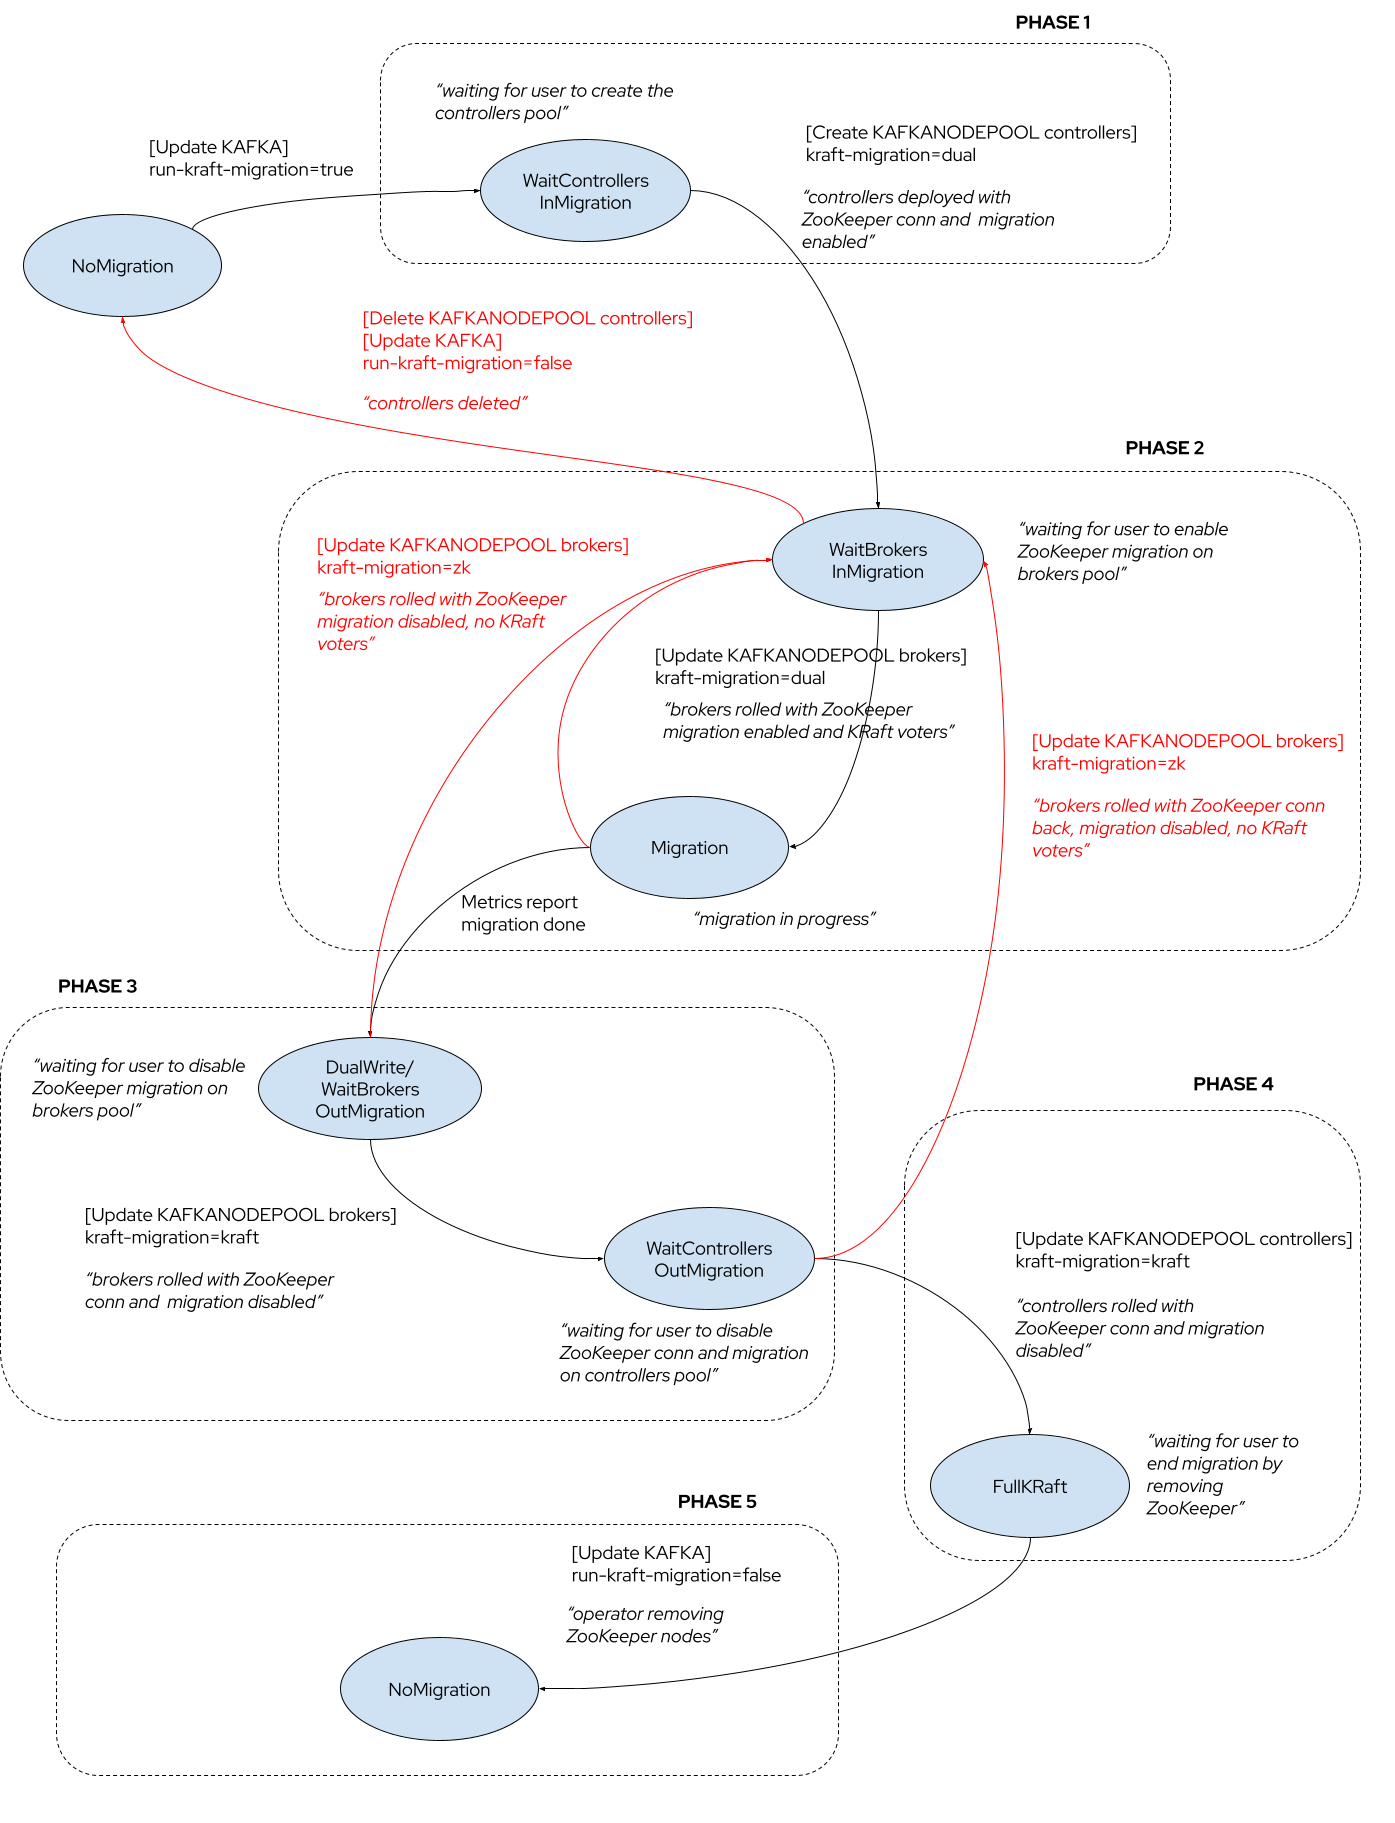
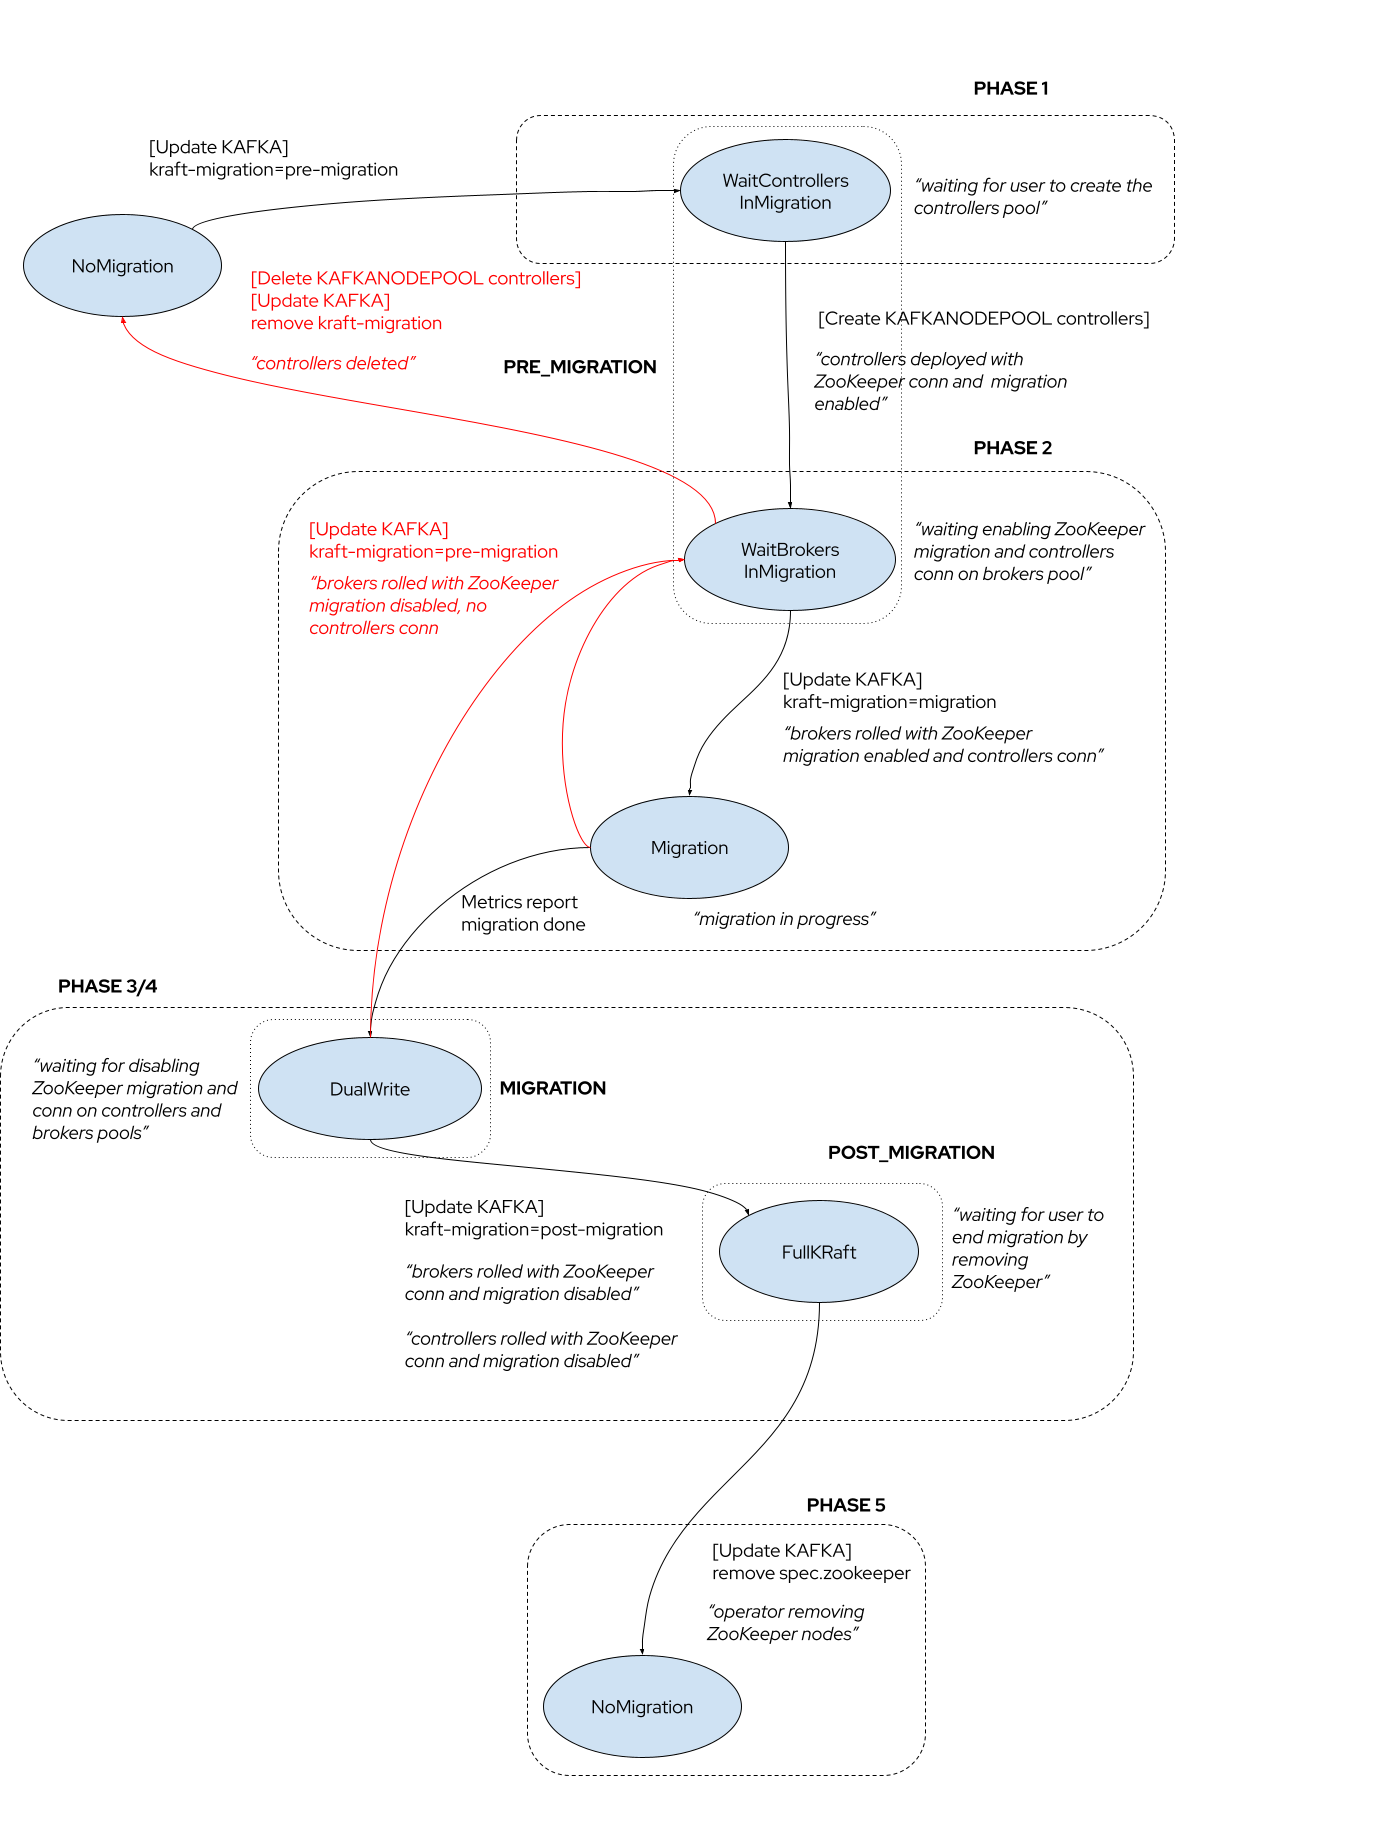
Moved to use a single annotation Updated the migration FSM based on the new single annotation

diff --git a/056-zk-kraft-migration.md b/056-zk-kraft-migration.md
@@ -37,8 +37,6 @@ One of the main points to highlight is that such a process doesn't support to mi
 It means that the user environment should be sized to host more nodes running in parallel, because during the migration process both ZooKeeper nodes and KRaft controllers will be running.
 The end of the migration will involve shutting down the ZooKeeper nodes reducing the resources consumption.
 
-TBD: some intro about Strimzi migration process
-
 ### Prerequisites
 
 An Apache Kafka cluster is running in ZooKeeper mode with `N` brokers and `M` ZooKeeper nodes, as defined by the `replicas` fields in the corresponding `Kafka` custom resource.
@@ -77,14 +75,13 @@ The migration process can be also rolled back to ZooKeeper at any point before t
 ### Finite State Machine (FSM)
 
 The migration process can be described with a Finite State Machine (FSM).
-The operator has a new `MigrationManager` component in charge of tracking the migration finite state machine.
-Transitioning across the states depends on the current state, stored in the `strimzi.io/kraft-migration-state` annotation, and the "input" represented by the user interaction with the operator through the following annotations:
-
-* `strimzi.io/run-kraft-migration`: to be applied on the `Kafka` custom resource with `true|false` values to start/end the overall migration process.
-* `strimzi.io/kraft-migration`: to be applied on the `KafkaNodePool`(s) custom resource with `dual|kraft|zk` values to represent the desired "direction" in the migration process by the user:
-  * `dual`: allows to move the migration process forward to reach the point of the "dual-write" with KRaft controllers deployed but with metadata written to both ZooKeeper and KRaft. Brokers are also connected to both ZooKeeper nodes and KRaft controllers.
-  * `kraft`: allows to move the migration process forward from the "dual-write" to the end of the migration with ZooKeeper out of the picture.
-  * `zk`: allows to move the migration process back, when still possible, to have brokers working again with ZooKeeper ensemble only.
+The operator has a new `MigrationManager` component in charge of driving and tracking transitions in the FSM.
+Transitioning across the states depends on the current state, stored in the `strimzi.io/kraft-migration-state` annotation, and the "input" represented by the user interaction with the operator through the `strimzi.io/kraft-migration` annotation to be applied on the `Kafka` custom resource.
+The possible values are `pre-migration|migration|post-migration` to represent the desired "direction" in the migration process:
+ 
+* `pre-migration`: used at the very beginning of the migration process represent the intention to move into the phase where operator is waiting for the user to create the KRaft controllers pool in order to deploy the corresponding nodes with the ZooKeeper migration enabled. This value can be also used to rollback the migration progress, when still possible, to have brokers working again with ZooKeeper ensemble only.
+* `migration`: to move the migration process forward with brokers configured with the ZooKeeper migration enabled and connected to the KRaft controllers, so that Apache Kafka migration component can run the actual metadata migration ending to the "dual write" mode where metadata are both written to ZooKeeper and KRaft. Brokers are also connected to both ZooKeeper nodes and KRaft controllers.
+* `post-migration`: to finalize the migration by disabling the ZooKeeper migration on controllers and brokers, rolling the nodes, and finally having a full KRaft based cluster with ZooKeeper ensemble still running but out of the picture.
 
 The usage of the `strimzi.io/kraft-migration-state` annotation for tracking the migration state, and not using a field in `Kafka.status`, is to avoid a permanent API change (on the `Kafka` CRD) for a temporary process, which won't be used anymore when users will move all their current clusters from ZooKeeper to KRaft.
 
@@ -93,15 +90,15 @@ The state machine is described in the following diagram:
 ![Migration Finite State Machine](./images/056-zk-kraft-migration-fsm.png)
 
 The following sections explain the states and transitions in details.
+The "Phase"(s) reflect what is described in the official [ZooKeeper to KRaft Migration](https://kafka.apache.org/documentation/#kraft_zk_migration) guide in the Apache Kafka documentation but with the right degree of automation provided by the operator.
+Also, the `PRE_MIGRATION`, `MIGRATION` and `POST_MIGRATION` boxes corresponds to the `ZkMigrationState` [enum values](https://github.com/apache/kafka/blob/trunk/metadata/src/main/java/org/apache/kafka/metadata/migration/ZkMigrationState.java#L32) from the Apache Kafka migration component.
 
 #### Phase 1: Provisioning the KRaft controller quorum
 
-Starting from a `NoMigration` (or null) state (as per `strimzi.io/kraft-migration-state` annotation), the user applies the `strimzi.io/run-kraft-migration: true` on the `Kafka` custom resource to make the operator aware of the migration "intention".
+Starting from a `NoMigration` (or null) state (as per `strimzi.io/kraft-migration-state` annotation), the user applies the `strimzi.io/kraft-migration: pre-migration` on the `Kafka` custom resource to make the operator aware of the migration intention.
 The FSM moves to a `WaitControllersInMigration` state where the operator expects the user to create the KRaft controllers pool.
 The user creates the `KafkaNodePool` custom resource containing the definition of the KRaft controllers which are going to replace the ZooKeeper nodes.
-These controllers need to be deployed in "migration mode", so the `KafkaNodePool` custom resource has to be annotated with `strimzi.io/kraft-migration: dual`.
-
-This way, the operator configures the controllers accordingly with the ZooKeeper migration flag and the connection to the ZooKeeper ensemble. 
+The operator creates and configures the controllers accordingly with the ZooKeeper migration flag and the connection to the ZooKeeper ensemble. 
 
 ```shell
 # Enable the migration
@@ -111,21 +108,23 @@ zookeeper.metadata.migration.enable=true
 zookeeper.connect=<connection-to-zookeeper>
 ```
 
-> NOTE: without an annotation to differentiate the operator behavior, the operator itself just creates the controller nodes in the pool and restarts the Kafka brokers to use them. ZooKeeper is not used anymore but no proper migration takes place (from ZooKeeper to KRaft metadata).
+> NOTE: without an annotation on the `Kafka` custom resource to differentiate the operator behavior, the operator itself just creates the controllers in the pool and restarts the Kafka brokers to use them. ZooKeeper is not used anymore but no proper migration takes place (from ZooKeeper to KRaft metadata). Because of KRaft and related migration from ZooKeeper not supported yet, this can drive to the following [issue](https://github.com/strimzi/strimzi-kafka-operator/issues/9108).
 
 The operator has to wait for the KRaft controllers quorum to be formed, leader elected and the migration process moving into the state of waiting for brokers to register.
 
-The FSM moves to a `WaitBrokersInMigration` state where the operator expects the user to enable ZooKeeper migration on the brokers pool in order to actually start the migration (Phase 2).
+The FSM moves to a `WaitBrokersInMigration` state where the operator expects the user to ask for running the actual metadata migration.
+It means having the operator enabling the ZooKeeper migration on the brokers pool in order to actually start the migration (Phase 2).
 
 From this state it's still possible to not move forward with the migration.
-The user can delete the `KafkaNodePool` custom resource containing the definition of the KRaft controllers and apply the `strimzi.io/run-kraft-migration: false` annotation (or delete it) on the `Kafka` custom resource.
+The user can delete the `KafkaNodePool` custom resource containing the definition of the KRaft controllers and remove the `strimzi.io/kraft-migration` annotation from the `Kafka` custom resource.
 The FSM moves back to the `NoMigration` state (or null) actually exiting from the migration process.
+There is nothing to do with the brokers which are still configured to work with the ZooKeeper ensemble only.
 
 #### Phase 2: Enabling the migration on the brokers
 
-In the `WaitBrokersInMigration` state, the operator expects the user to enable ZooKeeper migration on the brokers pool in order to actually start the migration.
+In the `WaitBrokersInMigration` state, the operator expects the user to ask for running the actual metadata migration.
 In order to start the actual migration, the brokers need to be connected to the KRaft controllers and have the ZooKeeper migration enabled.
-The user annotates the `KafkaNodePool` resource running the current ZooKeeper based brokers with `strimzi.io/kraft-migration: dual`.
+The user annotates the `Kafka` custom resource running the current ZooKeeper based brokers with `strimzi.io/kraft-migration: migration`.
 This annotation drives the operator to update the brokers' configuration with the ZooKeeper migration flag enabled and with the new KRaft controllers quorum connection information as well.
 
 ```shell
@@ -141,20 +140,20 @@ zookeeper.metadata.migration.enable=true
 ```
 
 Finally, the operator rolls the brokers.
-After the rolling, the migration starts and the operator has to wait for it to be completed to move to the next phase.
+After the rolling, the internal Apache Kafka migration component starts the actual metadata migration and the operator has to wait for it to be completed to move to the next phase.
 Checking the migration progress can be done using some of the exposed migration metrics.
-The FSM moves to `Migration` state first, while migration is ongoing, and finally to the `DualWrite/WaitBrokersOutMigration` state.
-In both states, the user can rollback the process by applying the `strimzi.io/kraft-migration: zk` on the `KafkaNodePool` resource running the current ZooKeeper based brokers.
+The FSM moves to `Migration` state first, while migration is ongoing, and finally to the `DualWrite` state.
+In both states, the user can rollback the process by applying the `strimzi.io/kraft-migration: pre-migration` on the `Kafka` custom resource.
 In this case, the operator configures the brokers with no ZooKeeper migration flag, and no KRaft controllers quorum connection information.
 Finally, the operator rolls the brokers and wait for them to be ready again.
-The FSM moves back to the `WaitBrokersInMigration`, so actually at the end of the Phase 1.
+The FSM moves back to the `WaitBrokersInMigration`, so actually at the beginning of the Phase 2.
 
-If the user doesn't rollback the migration, next step is to move brokers out of migration and using KRaft only in Phase 3.
+If the user doesn't rollback the migration, next step is to move brokers and controllers out of migration and using KRaft only in Phase 3/4.
 
-#### Phase 3: Migrating brokers to KRaft
+#### Phase 3/4: Migrating brokers and controllers to full KRaft
 
-In the `DualWrite/WaitBrokersOutMigration` state, the operator expects the user to disable the ZooKeeper migration on the brokers pool.
-The user applies the `strimzi.io/kraft-migration: kraft` annotation to the `KafkaNodePool` resource running the current ZooKeeper based brokers.
+In the `DualWrite` state, the operator expects the user wants to finalize the migration, having a full KRaft based cluster and ZooKeeper out of the picture.
+The user applies the `strimzi.io/kraft-migration: post-migration` annotation to the `Kafka` custom resource.
 The operator updates the brokers' configuration by removing the ZooKeeper migration flag and connection to the ZooKeeper ensemble.
 It also has to replace the `broker.id` with `node.id`.
 
@@ -172,20 +171,10 @@ node.id=0
 # inter.broker.protocol.version=3.5
 ```
 
-Finally, the operator rolls the brokers and wait for them to be ready again.
+The operator rolls the brokers and wait for them to be ready again.
 They are now connected to the KRaft controllers quorum only and not to the ZooKeeper ensemble anymore.
-The FSM moves to the `WaitControllersOutMigration` state.
 
-This state is the last opportunity for the user to rollback the migration process by applying the `strimzi.io/kraft-migration: zk` on the `KafkaNodePool` resource running the current ZooKeeper based brokers.
-In this case, the operator configures the brokers with no ZooKeeper migration flag, and no KRaft controllers quorum connection information.
-Finally, the operator rolls the brokers and wait for them to be ready again.
-The FSM moves back to the `WaitBrokersInMigration`, so actually at the end of the Phase 1.
-
-#### Phase 4: Finalizing the migration
-
-In the `WaitControllersOutMigration` state, the operator expects the user to disable the ZooKeeper migration on the controllers pool.
-The user applies the `strimzi.io/kraft-migration: kraft` annotation on the `KafkaNodePool` resource running the KRaft controllers.
-The operator updates the controllers' configuration by removing the ZooKeeper migration flag and connection to the ZooKeeper ensemble.
+When brokers are rolled and ready again, the operator updates the controllers' configuration by removing the ZooKeeper migration flag and connection to the ZooKeeper ensemble.
 
 ```shell
 # Disable the migration
@@ -199,11 +188,16 @@ Finally, the operator rolls the controllers and wait for them to be ready again.
 They are now disconnected from the ZooKeeper ensemble which is totally out of the picture.
 The FSM moves to the `FullKRaft` state and ZooKeeper is not used anymore.
 
+Before completing the migration, the `DualWrite` state is also the last opportunity for the user to rollback the migration process by applying the `strimzi.io/kraft-migration: pre-migration` on the `Kafka` custom resource.
+In this case, the operator configures the brokers with no ZooKeeper migration flag, and no KRaft controllers quorum connection information.
+Finally, the operator rolls the brokers and wait for them to be ready again.
+The FSM moves back to the `WaitBrokersInMigration`, so actually at the beginning of the Phase 2.
+
 #### Phase 5: Removing ZooKeeper
 
 At this point the ZooKeeper ensemble is out of the picture, still running but not used anymore.
 In the `FullKRaft` state, the operator expects the user to finalize the migration by removing ZooKeeper.
-The user applies the `strimzi.io/run-kraft-migration: false` (or delete it) on the `Kafka` resource so that the operator can delete the ZooKeeper nodes.
+The user removes the `spec.zookeeper` on the `Kafka` custom resource so that the operator can delete the ZooKeeper nodes.
 The FSM moves back to a `NoMigration` state (or null).
 
 ### Metrics
@@ -236,8 +230,21 @@ No other projects in the Strimzi ecosystem are impacted by this proposal.
 ## Compatibility
 
 This proposal is not going to break any backward compatibility.
-The described procedure is new and doesn't change the Strimzi Cluster Operator behavior when the `strimzi.io/run-kraft-migration` and `strimzi.io/kraft-migration` annotations are not used.
+The described procedure is new and doesn't change the Strimzi Cluster Operator behavior when the `strimzi.io/kraft-migration`annotation is not used.
 
 ## Rejected alternatives
 
-As first iteration of the proposal there are no rejected alternatives.
+During the first pass of the proposal review, the following migration FSM was rejected as proposal.
+
+![Migration Finite State Machine](./images/056-rejected-zk-kraft-migration-fsm.png)
+
+It was based on using two different annotations:
+
+* `strimzi.io/run-kraft-migration`: to be applied on the `Kafka` custom resource with `true|false` values to start/end the overall migration process.
+* `strimzi.io/kraft-migration`: to be applied on the `KafkaNodePool`(s) custom resource with `dual|kraft|zk` values to represent the desired "direction" in the migration process by the user:
+  * `dual`: allows to move the migration process forward to reach the point of the "dual-write" with KRaft controllers deployed but with metadata written to both ZooKeeper and KRaft. Brokers are also connected to both ZooKeeper nodes and KRaft controllers.
+  * `kraft`: allows to move the migration process forward from the "dual-write" to the end of the migration with ZooKeeper out of the picture.
+  * `zk`: allows to move the migration process back, when still possible, to have brokers working again with ZooKeeper ensemble only.
+
+It was rejected after the agreement of having more automation on rolling nodes and less user involvement.
+It also had more complexity and a corresponding issue in case the user applies the `strimzi.io/kraft-migration` annotation only on some of the brokers pool and not all of them, so actually leaving some brokers out of the migration process.
